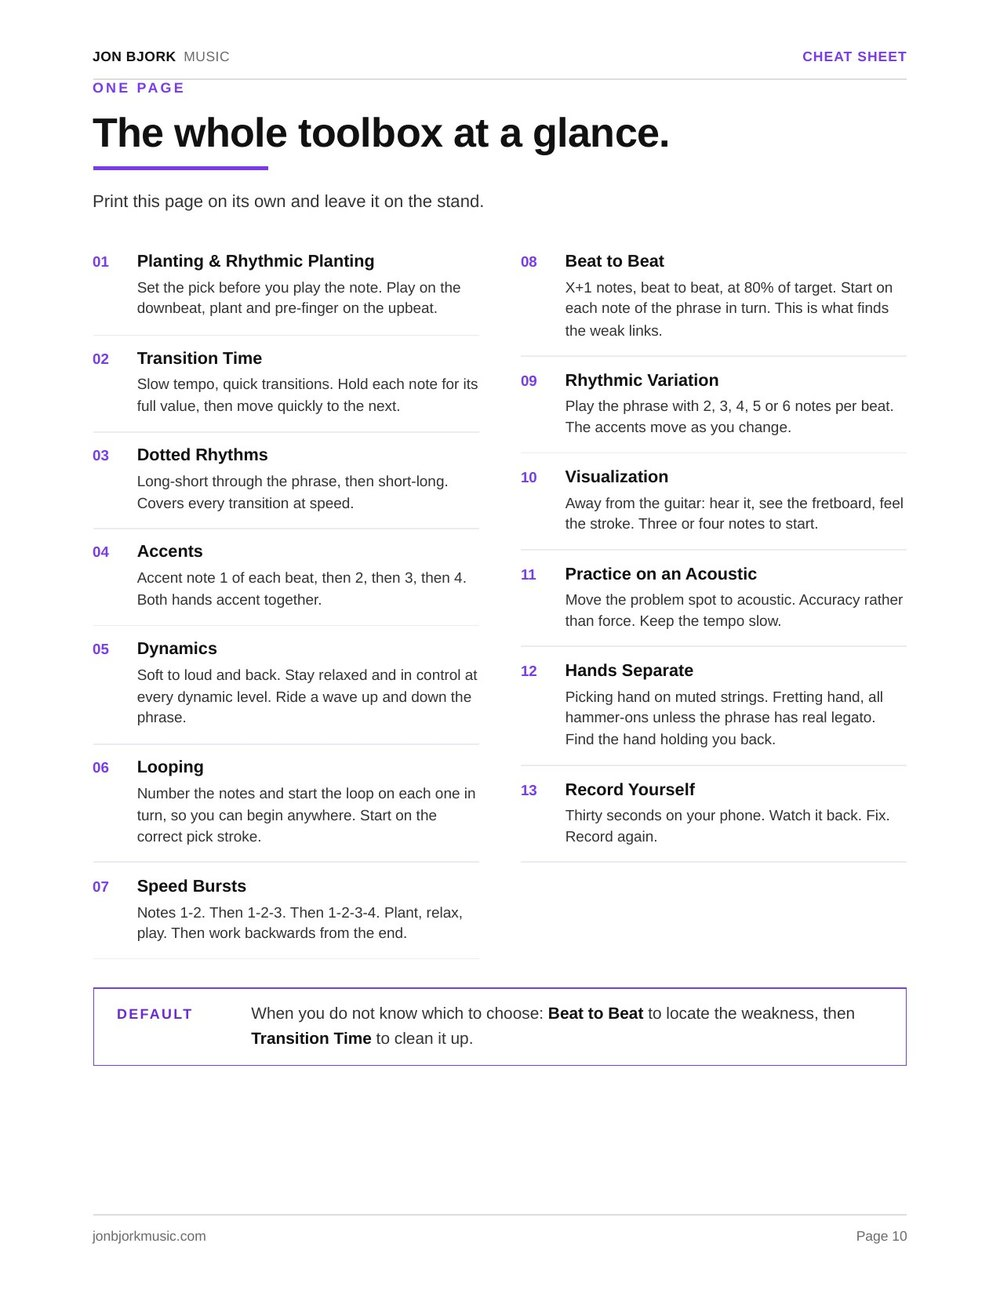
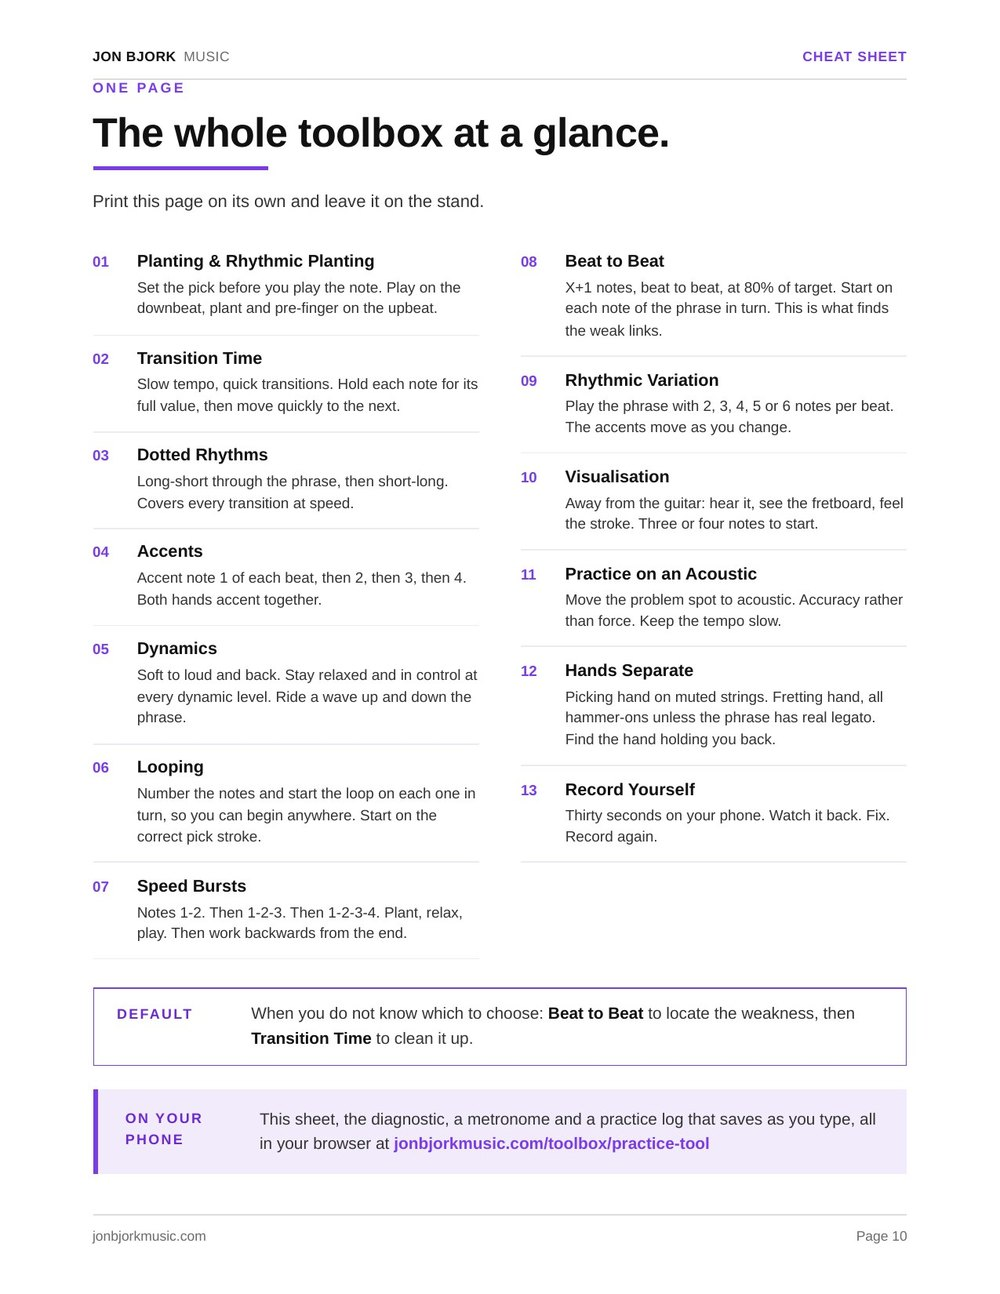
updates

Changed region(s): [[0.248, 0.8346, 0.713, 0.8964], [0.093, 0.8346, 0.186, 0.8964], [0.62, 0.34, 0.651, 0.3709]]

diff --git a/toolbox/practice-tool/index.html b/toolbox/practice-tool/index.html
@@ -259,7 +259,7 @@ footer .wrap{display:flex;justify-content:space-between;gap:18px;flex-wrap:wrap}
 <div class="dx-row">
 <div class="dx-q"><span class="qm">&rarr;</span>I'm learning it for the first time</div>
 <div class="path">
-<a class="step" href="#tool-10"><b>10</b>Visualization</a><span class="arrow">&#9656;</span><a class="step" href="#tool-01"><b>01</b>Rhythmic Planting</a><span class="arrow">&#9656;</span><a class="step" href="#tool-02"><b>02</b>Transition Time</a><span class="arrow">&#9656;</span><a class="step" href="#tool-08"><b>08</b>Beat to Beat</a>
+<a class="step" href="#tool-10"><b>10</b>Visualisation</a><span class="arrow">&#9656;</span><a class="step" href="#tool-01"><b>01</b>Rhythmic Planting</a><span class="arrow">&#9656;</span><a class="step" href="#tool-02"><b>02</b>Transition Time</a><span class="arrow">&#9656;</span><a class="step" href="#tool-08"><b>08</b>Beat to Beat</a>
 </div></div>
 <div class="dx-row">
 <div class="dx-q"><span class="qm">&rarr;</span>I can play it slowly, but it falls apart when I speed up</div>
@@ -294,14 +294,14 @@ footer .wrap{display:flex;justify-content:space-between;gap:18px;flex-wrap:wrap}
 <div class="dx-row">
 <div class="dx-q"><span class="qm">&rarr;</span>I'm not at the guitar</div>
 <div class="path">
-<a class="step" href="#tool-10"><b>10</b>Visualization</a>
+<a class="step" href="#tool-10"><b>10</b>Visualisation</a>
 </div></div>
 </div></div></section>
 <section id="tools" class="band">
 <div class="wrap">
 <div class="eyebrow">The toolbox</div><h2>The thirteen tools.</h2>
 <p class="dek">What to do, while you are doing it. The full explanation of every tool is in the book.</p>
-<div class="index"><a href="#tool-01"><b>01</b> Planting &amp; Rhythmic Planting</a><a href="#tool-02"><b>02</b> Transition Time</a><a href="#tool-03"><b>03</b> Dotted Rhythms</a><a href="#tool-04"><b>04</b> Accents</a><a href="#tool-05"><b>05</b> Dynamics</a><a href="#tool-06"><b>06</b> Looping</a><a href="#tool-07"><b>07</b> Speed Bursts</a><a href="#tool-08"><b>08</b> Beat to Beat</a><a href="#tool-09"><b>09</b> Rhythmic Variation</a><a href="#tool-10"><b>10</b> Visualization</a><a href="#tool-11"><b>11</b> Practice on an Acoustic</a><a href="#tool-12"><b>12</b> Hands Separate</a><a href="#tool-13"><b>13</b> Record Yourself</a></div>
+<div class="index"><a href="#tool-01"><b>01</b> Planting &amp; Rhythmic Planting</a><a href="#tool-02"><b>02</b> Transition Time</a><a href="#tool-03"><b>03</b> Dotted Rhythms</a><a href="#tool-04"><b>04</b> Accents</a><a href="#tool-05"><b>05</b> Dynamics</a><a href="#tool-06"><b>06</b> Looping</a><a href="#tool-07"><b>07</b> Speed Bursts</a><a href="#tool-08"><b>08</b> Beat to Beat</a><a href="#tool-09"><b>09</b> Rhythmic Variation</a><a href="#tool-10"><b>10</b> Visualisation</a><a href="#tool-11"><b>11</b> Practice on an Acoustic</a><a href="#tool-12"><b>12</b> Hands Separate</a><a href="#tool-13"><b>13</b> Record Yourself</a></div>
 <article class="tool" id="tool-01">
 <div class="tool-head"><div class="tool-n">01</div><div><div class="stage-tag">Stage 2 &nbsp;·&nbsp; Program</div><h3>Planting &amp; Rhythmic Planting</h3></div></div>
 <p class="oneline">Set the pick before you play the note. Play on the downbeat, plant and pre-finger on the upbeat.</p>
@@ -377,7 +377,7 @@ footer .wrap{display:flex;justify-content:space-between;gap:18px;flex-wrap:wrap}
 <div class="callout use"><h4>Use it when</h4><p>You do not know where the glitch actually is, or you have a phrase down at a slow tempo and want to know what is stopping it going faster.</p></div>
 <button class="preset" data-bpm="100" data-sub="4"><span class="pl">Set the metronome</span> 100 BPM &middot; 16ths<span class="ph">X+1 at 80% of target</span></button>
 <div class="blk"><h4>On your phrase</h4><p class="labnote">Every session, on your own music.</p><ol><li>Set the metronome to about 80% of your target tempo.</li><li>Play the first X+1 group: the notes of one beat, plus the first note of the next.</li><li>Start the group on note 2 instead. Then note 3. Then note 4.</li><li>Continue to the end of the phrase, checking the starting pick stroke each time.</li><li>Write down the two or three groups that failed. Those are your weak links.</li></ol></div>
-<div class="callout soft"><h4>You've got it when</h4><p>Every X+1 group plays at 80% of the target with RAT intact, and you can name the two or three that do not.</p></div>
+<div class="callout soft"><h4>You've got it when</h4><p>You have tested every X+1 group at 80% of the target and can name the two or three that fail RAT.</p></div>
 <a class="totop" href="#top">Back to top</a>
 </article>
 <article class="tool" id="tool-09">
@@ -391,7 +391,7 @@ footer .wrap{display:flex;justify-content:space-between;gap:18px;flex-wrap:wrap}
 <a class="totop" href="#top">Back to top</a>
 </article>
 <article class="tool" id="tool-10">
-<div class="tool-head"><div class="tool-n">10</div><div><div class="stage-tag">Anywhere &nbsp;·&nbsp; No guitar needed</div><h3>Visualization</h3></div></div>
+<div class="tool-head"><div class="tool-n">10</div><div><div class="stage-tag">Anywhere &nbsp;·&nbsp; No guitar needed</div><h3>Visualisation</h3></div></div>
 <p class="oneline">Away from the guitar: hear it, see the fretboard, feel the stroke. Three or four notes to start.</p>
 <div class="callout use"><h4>Use it when</h4><p>You cannot clearly hear or remember the phrase, you are learning something new from notation, or you are away from the guitar with time to spare.</p></div>
 <button class="preset off"><span class="pl">Metronome</span> Not needed for this one<span class="ph">Work it in silence</span></button>

diff --git a/toolbox/index.html b/toolbox/index.html
@@ -674,7 +674,7 @@ src="https://www.facebook.com/tr?id=407195623608189&ev=PageView&noscript=1"
         <div class="tool"><b>07</b><span>Speed Bursts</span></div>
         <div class="tool"><b>08</b><span>Beat to Beat</span></div>
         <div class="tool"><b>09</b><span>Rhythmic Variation</span></div>
-        <div class="tool"><b>10</b><span>Visualization</span></div>
+        <div class="tool"><b>10</b><span>Visualisation</span></div>
         <div class="tool"><b>11</b><span>Practice on an Acoustic</span></div>
         <div class="tool"><b>12</b><span>Hands Separate</span></div>
         <div class="tool"><b>13</b><span>Record Yourself</span></div>
